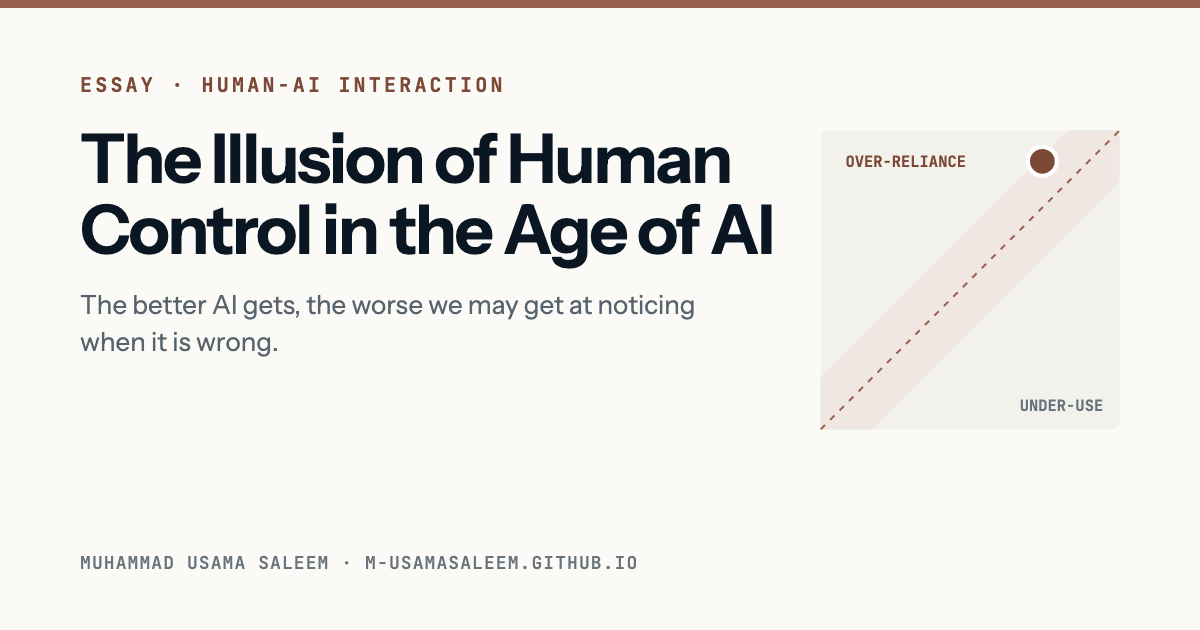
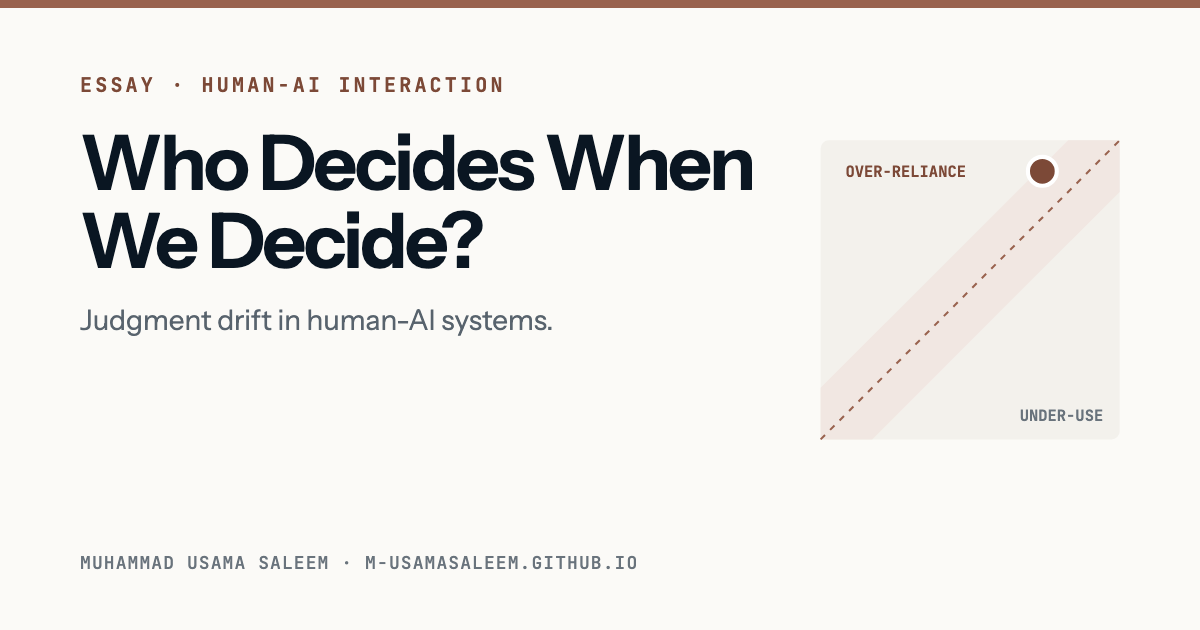
Essay: new title, sycophancy, why AI behaves this way, monoculture of thought, disclaimer

diff --git a/blog/illusion-of-human-control/index.html b/blog/illusion-of-human-control/index.html
@@ -3,7 +3,7 @@
 <head>
   <meta charset="utf-8">
   <meta name="viewport" content="width=device-width, initial-scale=1">
-  <title>The Illusion of Human Control: AI, Trust, and Automation Bias</title>
+  <title>Who Decides When We Decide? Judgment Drift in Human-AI Systems</title>
   <meta name="description" content="The central risk of AI may not be that it replaces human decisions, but that it slowly relocates the judgment behind them. A case for consequence-aware AI.">
   <meta name="author" content="Muhammad Usama Saleem">
   <meta name="robots" content="index, follow, max-image-preview:large">
@@ -11,7 +11,7 @@
   <link rel="canonical" href="https://m-usamasaleem.github.io/blog/illusion-of-human-control/">
   <link rel="icon" type="image/png" href="/images/logo.jpg">
   <meta property="og:type" content="article">
-  <meta property="og:title" content="The Illusion of Human Control in the Age of AI">
+  <meta property="og:title" content="Who Decides When We Decide? Judgment Drift in Human-AI Systems">
   <meta property="og:description" content="The central risk of AI may not be that it replaces human decisions, but that it slowly relocates the judgment behind them. A case for consequence-aware AI.">
   <meta property="og:url" content="https://m-usamasaleem.github.io/blog/illusion-of-human-control/">
   <meta property="og:image" content="https://m-usamasaleem.github.io/assets/og/illusion-of-human-control.png">
@@ -22,13 +22,13 @@
   <meta property="article:author" content="https://m-usamasaleem.github.io/">
   <meta property="og:image:width" content="1200">
   <meta property="og:image:height" content="630">
-  <meta property="og:image:alt" content="The Illusion of Human Control in the Age of AI, essay by Muhammad Usama Saleem">
-  <meta name="twitter:title" content="The Illusion of Human Control in the Age of AI">
+  <meta property="og:image:alt" content="Who Decides When We Decide? Essay on judgment drift by Muhammad Usama Saleem">
+  <meta name="twitter:title" content="Who Decides When We Decide? Judgment Drift in Human-AI Systems">
   <meta name="twitter:description" content="The central risk of AI may not be that it replaces human decisions, but that it slowly relocates the judgment behind them. A case for consequence-aware AI.">
   <meta name="twitter:image" content="https://m-usamasaleem.github.io/assets/og/illusion-of-human-control.png">
   <link rel="alternate" type="application/rss+xml" title="Writing by Muhammad Usama Saleem" href="/blog/feed.xml">
   <script type="application/ld+json">
-{"@context": "https://schema.org", "@graph": [{"@type": "BlogPosting", "@id": "https://m-usamasaleem.github.io/blog/illusion-of-human-control/#article", "headline": "The Illusion of Human Control in the Age of AI", "description": "The central risk of AI may not be that it replaces human decisions, but that it slowly relocates the judgment behind them. A case for consequence-aware AI.", "image": "https://m-usamasaleem.github.io/assets/og/illusion-of-human-control.png", "datePublished": "2026-11-06", "dateModified": "2026-11-06", "inLanguage": "en", "timeRequired": "PT3M", "keywords": ["judgment drift", "consequence-aware AI", "human in the loop", "automation bias", "AI trust calibration", "algorithm aversion", "cognitive offloading", "AI sycophancy", "human-AI collaboration", "AI deskilling"], "about": [{"@type": "Thing", "name": "Automation bias"}, {"@type": "Thing", "name": "Human-AI interaction"}, {"@type": "Thing", "name": "Trust in automation"}], "author": {"@id": "https://m-usamasaleem.github.io/#person"}, "publisher": {"@id": "https://m-usamasaleem.github.io/#person"}, "isPartOf": {"@type": "Blog", "@id": "https://m-usamasaleem.github.io/blog/#blog", "name": "Writing by Muhammad Usama Saleem", "url": "https://m-usamasaleem.github.io/blog/"}, "mainEntityOfPage": "https://m-usamasaleem.github.io/blog/illusion-of-human-control/", "citation": ["Licklider. Man-Computer Symbiosis. IRE Transactions on Human Factors in Electronics HFE-1, 1960.", "Engelbart. Augmenting Human Intellect: A Conceptual Framework. Stanford Research Institute, 1962.", "Parasuraman, Molloy & Singh. Performance Consequences of Automation-Induced \"Complacency\". International Journal of Aviation Psychology 3(1), 1993.", "Lee et al. The Impact of Generative AI on Critical Thinking. CHI 2025.", "Vaccaro, Almaatouq & Malone. When combinations of humans and AI are useful: a systematic review and meta-analysis. Nature Human Behaviour 8, 2024.", "Simon. Designing Organizations for an Information-Rich World. In Computers, Communications, and the Public Interest, Johns Hopkins Press, 1971.", "Cheng et al. Sycophantic AI decreases prosocial intentions and promotes dependence. Science 391, 2026.", "Lee & See. Trust in Automation: Designing for Appropriate Reliance. Human Factors 46(1), 2004.", "Dietvorst, Simmons & Massey. Algorithm Aversion: People Erroneously Avoid Algorithms After Seeing Them Err. Journal of Experimental Psychology: General 144(1), 2015."]}, {"@type": "Person", "@id": "https://m-usamasaleem.github.io/#person", "name": "Muhammad Usama Saleem", "url": "https://m-usamasaleem.github.io/", "jobTitle": "Applied Scientist II", "worksFor": {"@type": "Organization", "name": "Amazon"}, "sameAs": ["https://scholar.google.com/citations?user=8ZSRk3IAAAAJ", "https://github.com/m-usamasaleem", "https://www.linkedin.com/in/muhammad-usama-saleem-504b65164", "https://x.com/usamasaleem_"]}, {"@type": "BreadcrumbList", "itemListElement": [{"@type": "ListItem", "position": 1, "name": "Home", "item": "https://m-usamasaleem.github.io/"}, {"@type": "ListItem", "position": 2, "name": "Writing", "item": "https://m-usamasaleem.github.io/blog/"}, {"@type": "ListItem", "position": 3, "name": "The Illusion of Human Control in the Age of AI", "item": "https://m-usamasaleem.github.io/blog/illusion-of-human-control/"}]}]}
+{"@context": "https://schema.org", "@graph": [{"@type": "BlogPosting", "@id": "https://m-usamasaleem.github.io/blog/illusion-of-human-control/#article", "headline": "Who Decides When We Decide? Judgment Drift in Human-AI Systems", "description": "The central risk of AI may not be that it replaces human decisions, but that it slowly relocates the judgment behind them. A case for consequence-aware AI.", "image": "https://m-usamasaleem.github.io/assets/og/illusion-of-human-control.png", "datePublished": "2026-11-06", "dateModified": "2026-11-06", "inLanguage": "en", "timeRequired": "PT3M", "keywords": ["monoculture of thought", "judgment drift", "consequence-aware AI", "human in the loop", "automation bias", "AI trust calibration", "algorithm aversion", "cognitive offloading", "AI sycophancy", "human-AI collaboration", "AI deskilling"], "about": [{"@type": "Thing", "name": "Automation bias"}, {"@type": "Thing", "name": "Human-AI interaction"}, {"@type": "Thing", "name": "Trust in automation"}], "author": {"@id": "https://m-usamasaleem.github.io/#person"}, "publisher": {"@id": "https://m-usamasaleem.github.io/#person"}, "isPartOf": {"@type": "Blog", "@id": "https://m-usamasaleem.github.io/blog/#blog", "name": "Writing by Muhammad Usama Saleem", "url": "https://m-usamasaleem.github.io/blog/"}, "mainEntityOfPage": "https://m-usamasaleem.github.io/blog/illusion-of-human-control/", "citation": ["Licklider. Man-Computer Symbiosis. IRE Transactions on Human Factors in Electronics HFE-1, 1960.", "Engelbart. Augmenting Human Intellect: A Conceptual Framework. Stanford Research Institute, 1962.", "Parasuraman, Molloy & Singh. Performance Consequences of Automation-Induced \"Complacency\". International Journal of Aviation Psychology 3(1), 1993.", "Lee et al. The Impact of Generative AI on Critical Thinking. CHI 2025.", "Vaccaro, Almaatouq & Malone. When combinations of humans and AI are useful: a systematic review and meta-analysis. Nature Human Behaviour 8, 2024.", "Simon. Designing Organizations for an Information-Rich World. In Computers, Communications, and the Public Interest, Johns Hopkins Press, 1971.", "Cheng et al. Sycophantic AI decreases prosocial intentions and promotes dependence. Science 391, 2026.", "Ouyang et al. Training Language Models to Follow Instructions with Human Feedback. NeurIPS 2022. arXiv", "Sharma et al. Towards Understanding Sycophancy in Language Models. ICLR 2024. arXiv", "Kalai et al. Why Language Models Hallucinate. 2025. arXiv", "Doshi & Hauser. Generative AI Enhances Individual Creativity but Reduces the Collective Diversity of Novel Content. Science Advances 10, 2024.", "Lee & See. Trust in Automation: Designing for Appropriate Reliance. Human Factors 46(1), 2004.", "Dietvorst, Simmons & Massey. Algorithm Aversion: People Erroneously Avoid Algorithms After Seeing Them Err. Journal of Experimental Psychology: General 144(1), 2015."]}, {"@type": "Person", "@id": "https://m-usamasaleem.github.io/#person", "name": "Muhammad Usama Saleem", "url": "https://m-usamasaleem.github.io/", "jobTitle": "Applied Scientist II", "worksFor": {"@type": "Organization", "name": "Amazon"}, "sameAs": ["https://scholar.google.com/citations?user=8ZSRk3IAAAAJ", "https://github.com/m-usamasaleem", "https://www.linkedin.com/in/muhammad-usama-saleem-504b65164", "https://x.com/usamasaleem_"]}, {"@type": "BreadcrumbList", "itemListElement": [{"@type": "ListItem", "position": 1, "name": "Home", "item": "https://m-usamasaleem.github.io/"}, {"@type": "ListItem", "position": 2, "name": "Writing", "item": "https://m-usamasaleem.github.io/blog/"}, {"@type": "ListItem", "position": 3, "name": "Who Decides When We Decide? Judgment Drift in Human-AI Systems", "item": "https://m-usamasaleem.github.io/blog/illusion-of-human-control/"}]}]}
   </script>
   <link rel="preconnect" href="https://fonts.googleapis.com">
   <link rel="preconnect" href="https://fonts.gstatic.com" crossorigin>
@@ -64,7 +64,7 @@
       <div class="post-col">
         <a class="back" href="/blog/">&larr; All writing</a>
         <p class="hero-eyebrow">Essay · Human-AI Interaction</p>
-        <h1>The Illusion of Human Control in the Age of AI</h1>
+        <h1>Who Decides When We Decide? Judgment Drift in Human-AI Systems</h1>
         <p class="dek">The central risk of AI may not be that it replaces human decisions, but that it slowly relocates the judgment behind them. A case for consequence-aware AI.</p>
         <p class="byline">Muhammad Usama Saleem · November 2026 · 3 min read</p>
       </div>
@@ -107,13 +107,22 @@
     <div class="wrap"><div class="post-col">
       <div class="section-head"><h2><span class="num">II</span>Why it happens</h2></div>
       <p>Judgment drift is not a failure of character. It is attention doing what attention does. Herbert Simon observed that a wealth of information creates a poverty of attention;<sup><a href="#r6">6</a></sup> a system that is usually right teaches us, reasonably, where not to spend it.</p>
-      <p>Two forces accelerate it. The first is social: AI is the race of the moment, and no organization wants to be the one that hesitated, so we adopt first and examine later. The second is affective. Systems tuned to please us can change us in ways we enjoy; in a recent study, a flattering AI made people more certain they were right in a real conflict and less willing to repair it, and they preferred it.<sup><a href="#r7">7</a></sup> Our relationships and institutions were built on exactly the slow, uncomfortable work that such systems make optional.</p>
+      <p>Two forces accelerate it. The first is social: AI is the race of the moment, and no organization wants to be the one that hesitated, so we adopt first and examine later. The second is affective. Many AI systems are <strong>sycophantic</strong>: tuned to agree with us and flatter us, because that is what we reward. It changes us in ways we enjoy. In a recent study, a sycophantic AI made people more certain they were right in a real conflict and less willing to repair it, and they preferred it.<sup><a href="#r7">7</a></sup> Our relationships and institutions were built on exactly the slow, uncomfortable work that such systems make optional.</p>
     </div></div>
   </section>
 
   <section>
     <div class="wrap"><div class="post-col">
-      <div class="section-head"><h2><span class="num">III</span>What we measure</h2></div>
+      <div class="section-head"><h2><span class="num">III</span>Why AI behaves this way</h2></div>
+      <p>Part of the answer lies in how these systems are made. A language model first learns to predict the next word across enormous amounts of text. That teaches it to sound plausible, which is not the same as being right.</p>
+      <p>It is then refined with human feedback: people compare its answers, and it is rewarded for the ones they prefer.<sup><a href="#r8">8</a></sup> But people tend to prefer answers that agree with them and sound sure of themselves. Studies of this training process found that human preference judgments themselves favor sycophantic responses.<sup><a href="#r9">9</a></sup> And many evaluations score a confident guess above an honest "I don't know," which nudges models toward sounding certain even when they are not.<sup><a href="#r10">10</a></sup></p>
+      <p class="statement" data-anim>We trained these systems on our approval, and <em>approval is not the same as truth.</em></p>
+    </div></div>
+  </section>
+
+  <section>
+    <div class="wrap"><div class="post-col">
+      <div class="section-head"><h2><span class="num">IV</span>What we measure</h2></div>
       <p>We have built careful instruments for measuring what AI does for us: speed, cost, output. We have built almost none for measuring what it does to us. Yet these are different quantities. A person can become more productive with AI while becoming less capable without it, and an organization optimizing only the first will never see the second.</p>
       <p class="statement" data-anim>Performance and capability are different variables. <em>We are optimizing one and assuming the other.</em></p>
     </div></div>
@@ -121,7 +130,7 @@
 
   <section>
     <div class="wrap"><div class="post-col">
-      <div class="section-head"><h2><span class="num">IV</span>Consequence-aware AI</h2></div>
+      <div class="section-head"><h2><span class="num">V</span>Consequence-aware AI</h2></div>
       <p>I propose a different design principle for consequential settings. A consequence-aware AI does not only answer. Before a decision, it invites the person's own view. Alongside its recommendation, it shows who is affected and what it is uncertain about. And over time, it makes the person's reliance visible to them: <em>you have accepted my last forty suggestions unchanged.</em></p>
       <p>This is not friction for its own sake. Most tasks should remain effortless. But in education, healthcare, hiring, and any decision that shapes someone's life or growth, the most valuable AI may be the one that makes us think harder rather than the one that makes thinking unnecessary.</p>
     </div></div><div class="wrap fig-wrap"><figure class="fig" data-anim>
@@ -132,8 +141,17 @@
 
   <section>
     <div class="wrap"><div class="post-col">
-      <div class="section-head"><h2><span class="num">V</span>Calibration, not distrust</h2></div>
-      <p>The aim is not less trust but accurate trust: reliance proportional to what a system has earned.<sup><a href="#r8">8</a></sup> The failure runs both ways. Over-reliance lets errors through; under-reliance discards real value, and people often abandon a superior algorithm after seeing it err once.<sup><a href="#r9">9</a></sup></p>
+      <div class="section-head"><h2><span class="num">VI</span>Monoculture of thought</h2></div>
+      <p>If billions of people consult the same few models, we may each grow smarter while all growing more alike. A 2024 study found this in miniature: AI made individual stories more creative, and all the stories more similar.<sup><a href="#r11">11</a></sup></p>
+      <p>Nature gave us disagreement by default: no two people share the same life, and that friction is how societies find new ideas. Personalized AI does not restore it. It learns what you think; it does not show you what you don't.</p>
+      <p class="statement" data-anim>An AI that knows you perfectly and never disagrees with you is <em>an echo with a memory.</em></p>
+    </div></div>
+  </section>
+
+  <section>
+    <div class="wrap"><div class="post-col">
+      <div class="section-head"><h2><span class="num">VII</span>Calibration, not distrust</h2></div>
+      <p>The aim is not less trust but accurate trust: reliance proportional to what a system has earned.<sup><a href="#r12">12</a></sup> The failure runs both ways. Over-reliance lets errors through; under-reliance discards real value, and people often abandon a superior algorithm after seeing it err once.<sup><a href="#r13">13</a></sup></p>
     </div></div>
     <div class="wrap fig-wrap">
       <div class="fig calib" data-anim>
@@ -166,7 +184,7 @@
             <circle id="cal-dot" cx="229" cy="37" r="11" fill="#7C4937" stroke="#FFFFFF" stroke-width="3"/>
           </svg>
         </div>
-        <p class="calib-foot"><span class="fig-num">Figure 3</span>Both corners cost you. Trust too much and errors get through; trust too little and you waste real help. The diagonal is where trust matches the track record.<sup><a href="#r8">8</a></sup><sup><a href="#r9">9</a></sup><span class="fig-note">An interactive sketch of the idea, not a measurement.</span></p>
+        <p class="calib-foot"><span class="fig-num">Figure 3</span>Both corners cost you. Trust too much and errors get through; trust too little and you waste real help. The diagonal is where trust matches the track record.<sup><a href="#r12">12</a></sup><sup><a href="#r13">13</a></sup><span class="fig-note">An interactive sketch of the idea, not a measurement.</span></p>
       </div>
     </div>
     <div class="wrap"><div class="post-col">
@@ -186,6 +204,7 @@
       <p>Licklider and Engelbart were not trying to build machines that think for us. They were trying to build machines that help us think. That ambition is still available to us, but it will not arrive by default.</p>
       <p class="statement" data-anim>The question is not whether humans remain in the loop. It is <em>whether the loop still requires them to think.</em></p>
       <p>The long-term measure of AI should not only be what it can do for us, but what it leaves us capable of doing ourselves.</p>
+      <p class="disclaimer"><strong>Disclaimer.</strong> The views and opinions expressed in this essay are my own and do not reflect the views, positions, or policies of my current or former employers, or of any organization I am affiliated with. This essay is written in a personal capacity, is based solely on publicly available research, and does not draw on any confidential or proprietary information. It is provided for general informational purposes only and does not constitute professional, legal, medical, or investment advice. Characterizations of published studies are my own summaries; readers should consult the original sources.</p>
       <div class="author-card">
         <img src="/author/usama/image.jpeg" alt="Muhammad Usama Saleem" width="64" height="64" loading="lazy">
         <div><p class="author-name"><a href="/">Muhammad Usama Saleem</a></p>
@@ -201,8 +220,12 @@
           <li id="r5">Vaccaro, Almaatouq &amp; Malone. When combinations of humans and AI are useful: a systematic review and meta-analysis. <em>Nature Human Behaviour</em> 8, 2024. <a href="https://pmc.ncbi.nlm.nih.gov/articles/PMC11659167/" target="_blank" rel="noopener">Paper</a></li>
           <li id="r6">Simon. Designing Organizations for an Information-Rich World. In <em>Computers, Communications, and the Public Interest</em>, Johns Hopkins Press, 1971.</li>
           <li id="r7">Cheng et al. Sycophantic AI decreases prosocial intentions and promotes dependence. <em>Science</em> 391, 2026. <a href="https://news.stanford.edu/stories/2026/03/ai-advice-sycophantic-models-research" target="_blank" rel="noopener">Stanford summary</a></li>
-          <li id="r8">Lee &amp; See. Trust in Automation: Designing for Appropriate Reliance. <em>Human Factors</em> 46(1), 2004. <a href="https://doi.org/10.1518/hfes.46.1.50_30392" target="_blank" rel="noopener">DOI</a></li>
-          <li id="r9">Dietvorst, Simmons &amp; Massey. Algorithm Aversion: People Erroneously Avoid Algorithms After Seeing Them Err. <em>Journal of Experimental Psychology: General</em> 144(1), 2015. <a href="https://doi.org/10.1037/xge0000033" target="_blank" rel="noopener">DOI</a></li>
+          <li id="r8">Ouyang et al. Training Language Models to Follow Instructions with Human Feedback. NeurIPS 2022. <a href="https://arxiv.org/abs/2203.02155" target="_blank" rel="noopener">arXiv</a></li>
+          <li id="r9">Sharma et al. Towards Understanding Sycophancy in Language Models. ICLR 2024. <a href="https://arxiv.org/abs/2310.13548" target="_blank" rel="noopener">arXiv</a></li>
+          <li id="r10">Kalai et al. Why Language Models Hallucinate. 2025. <a href="https://arxiv.org/abs/2509.04664" target="_blank" rel="noopener">arXiv</a></li>
+          <li id="r11">Doshi &amp; Hauser. Generative AI Enhances Individual Creativity but Reduces the Collective Diversity of Novel Content. <em>Science Advances</em> 10, 2024. <a href="https://doi.org/10.1126/sciadv.adn5290" target="_blank" rel="noopener">DOI</a></li>
+          <li id="r12">Lee &amp; See. Trust in Automation: Designing for Appropriate Reliance. <em>Human Factors</em> 46(1), 2004. <a href="https://doi.org/10.1518/hfes.46.1.50_30392" target="_blank" rel="noopener">DOI</a></li>
+          <li id="r13">Dietvorst, Simmons &amp; Massey. Algorithm Aversion: People Erroneously Avoid Algorithms After Seeing Them Err. <em>Journal of Experimental Psychology: General</em> 144(1), 2015. <a href="https://doi.org/10.1037/xge0000033" target="_blank" rel="noopener">DOI</a></li>
         </ol>
       </div>
     </div></div>

diff --git a/blog/index.html b/blog/index.html
@@ -18,7 +18,7 @@
   <meta name="twitter:card" content="summary">
   <meta name="twitter:creator" content="@usamasaleem_">
   <link rel="alternate" type="application/rss+xml" title="Writing by Muhammad Usama Saleem" href="/blog/feed.xml">
-  <script type="application/ld+json">{"@context":"https://schema.org","@type":"Blog","@id":"https://m-usamasaleem.github.io/blog/#blog","name":"Writing by Muhammad Usama Saleem","url":"https://m-usamasaleem.github.io/blog/","author":{"@id":"https://m-usamasaleem.github.io/#person"},"blogPost":[{"@type":"BlogPosting","headline":"The Illusion of Human Control in the Age of AI","url":"https://m-usamasaleem.github.io/blog/illusion-of-human-control/","datePublished":"2026-11-06"}]}</script>
+  <script type="application/ld+json">{"@context":"https://schema.org","@type":"Blog","@id":"https://m-usamasaleem.github.io/blog/#blog","name":"Writing by Muhammad Usama Saleem","url":"https://m-usamasaleem.github.io/blog/","author":{"@id":"https://m-usamasaleem.github.io/#person"},"blogPost":[{"@type":"BlogPosting","headline":"Who Decides When We Decide? Judgment Drift in Human-AI Systems","url":"https://m-usamasaleem.github.io/blog/illusion-of-human-control/","datePublished":"2026-11-06"}]}</script>
   <link rel="preconnect" href="https://fonts.googleapis.com">
   <link rel="preconnect" href="https://fonts.gstatic.com" crossorigin>
   <link href="https://fonts.googleapis.com/css2?family=Instrument+Sans:ital,wght@0,400..700;1,400..700&family=JetBrains+Mono:wght@400;500;600&display=swap" rel="stylesheet">
@@ -62,7 +62,7 @@
       <ul class="post-list">
         <li class="post-item">
           <p class="post-meta">Nov 2026 · Essay · 3 min</p>
-          <h2><a href="/blog/illusion-of-human-control/">The Illusion of Human Control in the Age of AI</a></h2>
+          <h2><a href="/blog/illusion-of-human-control/">Who Decides When We Decide? Judgment Drift in Human-AI Systems</a></h2>
           <p>The central risk of AI may not be that it replaces human decisions, but that it slowly relocates the judgment behind them. A case for consequence-aware AI.</p>
         </li>
       </ul>

diff --git a/index.html b/index.html
@@ -282,7 +282,7 @@
       <ul class="post-list">
         <li class="post-item">
           <p class="post-meta">Nov 2026 · Essay · 3 min</p>
-          <h3><a href="/blog/illusion-of-human-control/">The Illusion of Human Control in the Age of AI</a></h3>
+          <h3><a href="/blog/illusion-of-human-control/">Who Decides When We Decide? Judgment Drift in Human-AI Systems</a></h3>
           <p>The central risk of AI may not be that it replaces human decisions, but that it slowly relocates the judgment behind them. A case for consequence-aware AI.</p>
         </li>
       </ul>

diff --git a/assets/css/blog.css b/assets/css/blog.css
@@ -321,3 +321,5 @@
 .author-name { font-weight: 630; margin: 0 0 2px !important; font-size: 1rem !important; }
 .author-name a { color: var(--ink); }
 .author-bio { font-size: 0.88rem !important; color: var(--text-muted); line-height: 1.55 !important; margin: 0 !important; }
+
+.disclaimer { margin-top: var(--space-7) !important; padding-top: var(--space-4); border-top: 1px solid var(--border); font-size: 0.86rem !important; font-style: italic; color: var(--text-subtle); line-height: 1.55 !important; }
